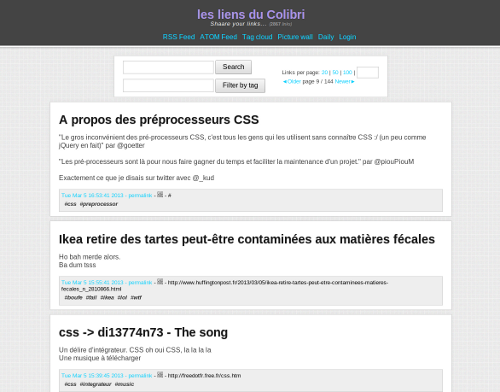
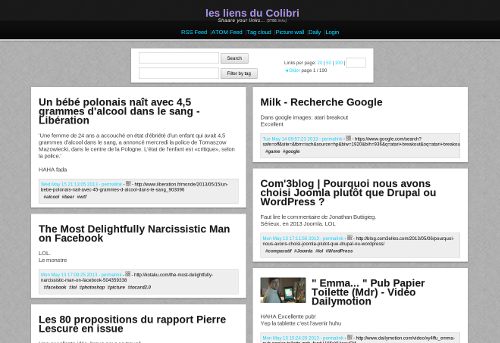
Mise a jour illustrations

diff --git a/tpl/shaarli.min.css b/tpl/shaarli.min.css
@@ -1,1 +1,1 @@
-/*! normalize.css v1.1.0 | MIT License | git.io/normalize */article,aside,details,figcaption,figure,footer,header,hgroup,main,nav,section,summary{display:block}audio,canvas,video{display:inline-block;*display:inline;*zoom:1}audio:not([controls]){display:none;height:0}[hidden]{display:none}html{font-size:100%;-webkit-text-size-adjust:100%;-ms-text-size-adjust:100%}html,button,input,select,textarea{font-family:sans-serif}body{margin:0}a:focus{outline:thin dotted}a:active,a:hover{outline:0}h1{font-size:2em;margin:.67em 0}h2{font-size:1.5em;margin:.83em 0}h3{font-size:1.17em;margin:1em 0}h4{font-size:1em;margin:1.33em 0}h5{font-size:.83em;margin:1.67em 0}h6{font-size:.67em;margin:2.33em 0}abbr[title]{border-bottom:1px dotted}b,strong{font-weight:bold}blockquote{margin:1em 40px}dfn{font-style:italic}hr{-moz-box-sizing:content-box;box-sizing:content-box;height:0}mark{background:#ff0;color:#000}p,pre{margin:1em 0}code,kbd,pre,samp{font-family:monospace,serif;_font-family:'courier new',monospace;font-size:1em}pre{white-space:pre;white-space:pre-wrap;word-wrap:break-word}q{quotes:none}q:before,q:after{content:'';content:none}small{font-size:80%}sub,sup{font-size:75%;line-height:0;position:relative;vertical-align:baseline}sup{top:-0.5em}sub{bottom:-0.25em}dl,menu,ol,ul{margin:1em 0}dd{margin:0 0 0 40px}menu,ol,ul{padding:0 0 0 40px}nav ul,nav ol{list-style:none;list-style-image:none}img{border:0;-ms-interpolation-mode:bicubic}svg:not(:root){overflow:hidden}figure{margin:0}form{margin:0}fieldset{border:1px solid #c0c0c0;margin:0 2px;padding:.35em .625em .75em}legend{border:0;padding:0;white-space:normal;*margin-left:-7px}button,input,select,textarea{font-size:100%;margin:0;vertical-align:baseline;*vertical-align:middle}button,input{line-height:normal}button,select{text-transform:none}button,html input[type="button"],input[type="reset"],input[type="submit"]{-webkit-appearance:button;cursor:pointer;*overflow:visible}button[disabled],html input[disabled]{cursor:default}input[type="checkbox"],input[type="radio"]{box-sizing:border-box;padding:0;*height:13px;*width:13px}input[type="search"]{-webkit-appearance:textfield;-moz-box-sizing:content-box;-webkit-box-sizing:content-box;box-sizing:content-box}input[type="search"]::-webkit-search-cancel-button,input[type="search"]::-webkit-search-decoration{-webkit-appearance:none}button::-moz-focus-inner,input::-moz-focus-inner{border:0;padding:0}textarea{overflow:auto;vertical-align:top}table{border-collapse:collapse;border-spacing:0}body{background:#ddd url(noisy_grid.png)}h1{font-size:1.79em;line-height:.91em}a{color:#0cd1fe;text-decoration:none}a:hover{text-decoration:underline}.hidden{display:none}.right{float:right}.left{float:left}.clear{clear:both;visibility:hidden;border:0}#header{background:#444;padding:5px;border-bottom:3px solid #fff;margin-bottom:20px;box-shadow:0 2px 5px rgba(0,0,0,0.2);position:relative}#header h1,#header h2{text-align:center;margin-bottom:0}#header h2{color:#eee;font-style:italic;font-size:.8em;font-weight:normal;letter-spacing:.1em;margin-top:0}.banner ul li{display:inline;padding:2px}.banner ul li::before{content:"|"}.banner ul li:first-child::before{content:""}.shaarli-count{font-style:italic;font-size:.8em;color:#999;letter-spacing:normal}.shaarli-count span{font-style:normal;font-weight:bold}#navigation{text-align:center;padding:5px;margin-top:10px}#navigation ul{margin:0}blockquote{background:#f8f8f8;padding:15px;font-family:Georgia,Cambria,Times;font-style:italic}p,blockquote,h1,h2,h3,h4,h5,b,i,em,strong,dl,dt,dd,abbr,ul,ol,code,table{color:#3f3f3f;word-wrap:break-word}thead{background:#444;color:#ebebeb}th,td{padding:5px 7px}td{border:1px solid #ddd}tbody tr:nth-child(even){background:#efefef}dt{font-size:1.1em;font-style:normal;font-weight:bold}dt::after{content:' :'}dd{margin-top:5px;font-style:italic}input[type="text"],input[type="mail"],input[type="password"],textarea{border:1px solid #ccc;box-shadow:inset 0 0 5px rgba(0,0,0,.1);font-size:1em;padding:5px 10px}input[type="submit"]{padding:5px 15px}.search-custom form{margin-top:10px}.shaarli-pagination{margin-top:25px}.pagination-configuration,.pagination{padding:0;margin:0;font-size:.8em}.pagination-configuration li,.pagination li{display:inline}.pagination-configuration form{margin:0;display:inline}.pagination-configuration .private{background-color:transparent}.links-per-page input{width:30px}.boxwhite{background:white;padding:10px 20px;max-width:900px;margin:10px auto;border:1px solid #cfcfcf;box-shadow:0 0 15px rgba(0,0,0,.05)}article,.search-custom{position:relative}.search-custom{padding-top:0;max-width:600px}.private{background:#fe3980;background:rgba(254,57,128,0.2);border-color:#afa7a7}.thumbnail{float:left;margin-right:15px;margin-top:15px}h1 a{text-decoration:none;color:#181818;text-shadow:0 1px 2px rgba(0,0,0,.23)}.banner h1 a{color:#aa94e7}h1 a:hover{color:#0e587a}#link-list,.search-custom{-webkit-transform:translateZ(0);-moz-transform:translateZ(0);-o-transform:translateZ(0);transform:translateZ(0);-webkit-backface-visibility:hidden}article nav{background:#eee;border:1px solid #ccc;padding:5px;font-size:.8em;overflow:hidden}.link-tag-list{margin:5px;padding:0}.link-tag{display:inline;font-style:italic;font-weight:bold;padding:0 2px}.link-tag a{color:#333}.link-tag::before{content:"#"}.qrcode{position:fixed;z-index:10;border:1px solid #ccc;box-shadow:0 0 10px 5px rgba(0,0,0,.5);top:50%;margin-top:-100px;left:50%;margin-left:-100px;cursor:delete}.qrcode figcaption{padding:5px;background:#777;text-align:center;color:white;margin-top:-5px}.link-edit-button{border:1px solid #ccc;width:12px;padding:10px;height:30px;position:absolute;top:24px;background:white;left:-33px;border-right:0}.bottom-pagination{max-width:450px}.bottom-pagination ul:first-child{float:left;margin-right:25px}.bottom-pagination .pagination{padding-top:4px}.bottom-pagination .shaarli-pagination{margin:0 0 5px}#footer{text-align:center;font-size:.75em}.picwall-pictureframe{display:inline-block}.login-form div{padding:10px}.login-form label{width:80px;display:inline-block}.login-form .login-checkbox{width:100%}.smallbutton{background:#eee;padding:5px;border:1px solid #ccc;border-radius:5px}.smallbutton:hover{text-decoration:none;background:#888;color:#eee}#newversion{position:absolute;top:5px;background:white;padding:5px;border:2px solid red;left:5px}.search-tag-delete{background:#444;padding:1px 5px;border-radius:24px;color:white}.editlink label{margin-top:8px;display:block}.editlink label:first-child{margin-top:0}.form-size{min-width:97%}#lf_tags{font-size:.8em}.button-div{margin-top:5px}.button-div input[type="button"]{padding:5px 15px}.button-div input[value="Save"]{color:#0c9de8}.button-div input[value="Delete"]{color:red}.bookmarklet-page #header{margin-bottom:0}.bookmarklet-page #header h1{margin-top:0}.bookmarklet-page body{background-image:none}.bookmarklet-page .editlink label{margin-top:3px}.bookmarklet-page .button-div input{padding:0 10px}.bookmarklet-page .boxwhite{background:white;padding:5px 20px;margin:0;border:0;box-shadow:none}.bookmarklet-page textarea{font-size:.9em}.tag-cloud{text-align:center}.tools-page li{margin-bottom:10px}.ui-autocomplete{background-color:#fff;padding:0 15px;max-width:300px;border:1px solid #c5c5c6}.ui-menu-item{list-style:none;margin-bottom:5px}.ui-menu-item:hover{background-color:#eee}.ui-menu-item a{display:block;width:100%;padding:3px;font-size:.8em}.ui-state-hover{background-color:#676767;color:#fff}.daily{font-family:Georgia,'DejaVu Serif',Norasi,serif;background-color:#e6d6be;background-image:url("../images/Paper_texture_v5_by_bashcorpo_w1000.jpg");-webkit-background-size:cover;-moz-background-size:cover;-o-background-size:cover;background-size:cover;position:relative;border-bottom:2px solid black}#daily_col1{float:left;position:relative;width:33%;padding-left:1%}#daily_col2{float:left;position:relative;width:33%}#daily_col3{float:left;position:relative;width:33%}div.dailyAbout{float:left;border:1px solid black;font-size:8pt;position:absolute;left:10px;top:15px;padding:5px 5px 5px 5px;text-align:center}div.dailyAbout a{color:#890500}div.dailyTitle{font-weight:bold;font-size:44pt;text-align:center;padding:10px 20px 0 20px}div.dailyDate{font-size:12pt;font-weight:bold;text-align:center;padding:0 20px 30px 20px}div.dailyEntry{margin:5px 10px 2px 5px;font-size:11pt;border-top:1px solid #555}div.dailyEntry a{text-decoration:none;color:#890500}div.dailyEntryTags{font-size:7.75pt}div.dailyEntryTitle{font-size:18pt;font-weight:bold}div.dailyEntryThumbnail{width:100%;text-align:center;background-color:#808080;background:url(../images/50pc_transparent.png);padding:4px 0 2px 0}div.dailyEntryDescription{margin-top:10px;margin-bottom:30px;text-align:justify;overflow:auto}#toggle-search{display:none}@media(max-width:640px){label[for="toggle-search"]:before{content:attr(data-icon);position:absolute;top:7px;left:8px;z-index:1337;padding:.1em .3em;font-size:2.5em;font-weight:bold;line-height:.7em;background:rgba(255,255,255,.4);color:#000;border-radius:4px}.search-custom{position:absolute;left:0;margin-left:-300px;z-index:10;width:230px;height:100%;margin-top:-23px;box-shadow:0 0 15px rgba(0,0,0,.5);-webkit-transition:margin-left .4s;-moz-transition:margin-left .4s;-o-transition:margin-left .4s;-ms-transition:margin-left .4s;transition:margin-left .4s}#toggle-search:checked+.search-custom{margin-left:0}}
+/*! normalize.css v1.1.0 | MIT License | git.io/normalize */article,aside,details,figcaption,figure,footer,header,hgroup,main,nav,section,summary{display:block}audio,canvas,video{display:inline-block;*display:inline;*zoom:1}audio:not([controls]){display:none;height:0}[hidden]{display:none}html{font-size:100%;-webkit-text-size-adjust:100%;-ms-text-size-adjust:100%}html,button,input,select,textarea{font-family:sans-serif}body{margin:0}a:focus{outline:thin dotted}a:active,a:hover{outline:0}h1{font-size:2em;margin:.67em 0}h2{font-size:1.5em;margin:.83em 0}h3{font-size:1.17em;margin:1em 0}h4{font-size:1em;margin:1.33em 0}h5{font-size:.83em;margin:1.67em 0}h6{font-size:.67em;margin:2.33em 0}abbr[title]{border-bottom:1px dotted}b,strong{font-weight:bold}blockquote{margin:1em 40px}dfn{font-style:italic}hr{-moz-box-sizing:content-box;box-sizing:content-box;height:0}mark{background:#ff0;color:#000}p,pre{margin:1em 0}code,kbd,pre,samp{font-family:monospace,serif;_font-family:'courier new',monospace;font-size:1em}pre{white-space:pre;white-space:pre-wrap;word-wrap:break-word}q{quotes:none}q:before,q:after{content:'';content:none}small{font-size:80%}sub,sup{font-size:75%;line-height:0;position:relative;vertical-align:baseline}sup{top:-0.5em}sub{bottom:-0.25em}dl,menu,ol,ul{margin:1em 0}dd{margin:0 0 0 40px}menu,ol,ul{padding:0 0 0 40px}nav ul,nav ol{list-style:none;list-style-image:none}img{border:0;-ms-interpolation-mode:bicubic}svg:not(:root){overflow:hidden}figure{margin:0}form{margin:0}fieldset{border:1px solid silver;margin:0 2px;padding:.35em .625em .75em}legend{border:0;padding:0;white-space:normal;*margin-left:-7px}button,input,select,textarea{font-size:100%;margin:0;vertical-align:baseline;*vertical-align:middle}button,input{line-height:normal}button,select{text-transform:none}button,html input[type="button"],input[type="reset"],input[type="submit"]{-webkit-appearance:button;cursor:pointer;*overflow:visible}button[disabled],html input[disabled]{cursor:default}input[type="checkbox"],input[type="radio"]{box-sizing:border-box;padding:0;*height:13px;*width:13px}input[type="search"]{-webkit-appearance:textfield;-moz-box-sizing:content-box;-webkit-box-sizing:content-box;box-sizing:content-box}input[type="search"]::-webkit-search-cancel-button,input[type="search"]::-webkit-search-decoration{-webkit-appearance:none}button::-moz-focus-inner,input::-moz-focus-inner{border:0;padding:0}textarea{overflow:auto;vertical-align:top}table{border-collapse:collapse;border-spacing:0}body{background:#ddd url(background.png);font-size:95.5%}h1{font-size:1.79em;line-height:.91em}a{color:#0cd1fe;text-decoration:none}a:hover{text-decoration:underline}.hidden{display:none}.right{float:right}.left{float:left}.clear{clear:both;visibility:hidden;border:0}#header{background:rgba(0,0,0,.85) url(degrade-header.png) repeat-x bottom;padding:5px;border-bottom:3px solid #fff;margin-bottom:20px;box-shadow:0 2px 5px rgba(0,0,0,0.2);position:relative}#header h1,#header h2{text-align:center;margin-bottom:0}#header h2{color:#eee;font-style:italic;font-size:.8em;font-weight:normal;letter-spacing:.1em;margin-top:0}.banner ul li{display:inline;padding:2px}.banner ul li::before{content:"|"}.banner ul li:first-child::before{content:""}.shaarli-count{font-style:italic;font-size:.8em;color:#999;letter-spacing:normal}.shaarli-count span{font-style:normal;font-weight:bold}#navigation{text-align:center;padding:5px;margin-top:10px}#navigation ul{margin:0}blockquote{background:#f8f8f8;padding:15px;font-family:Georgia,Cambria,Times;font-style:italic}p,blockquote,h1,h2,h3,h4,h5,b,i,em,strong,dl,dt,dd,abbr,ul,ol,code,table{color:#3f3f3f;word-wrap:break-word}thead{background:#444;color:#ebebeb}th,td{padding:5px 7px}td{border:1px solid #ddd}tbody tr:nth-child(even){background:#efefef}dt{font-size:1.1em;font-style:normal;font-weight:bold}dt::after{content:' :'}dd{margin-top:5px;font-style:italic}input[type="text"],input[type="mail"],input[type="password"],textarea{border:1px solid #ccc;box-shadow:inset 0 0 5px rgba(0,0,0,.1);font-size:1em;padding:5px 10px}input[type="submit"]{padding:5px 15px}input,button,textarea{font-size:.8em}.search-custom form{margin-top:10px}.shaarli-pagination{margin-top:25px}.pagination-configuration,.pagination{padding:0;margin:0;font-size:.8em}.pagination-configuration li,.pagination li{display:inline}.pagination-configuration form{margin:0;display:inline}.pagination-configuration .private{background-color:transparent}.links-per-page input{width:30px}.boxwhite{background:white;padding:10px 20px;max-width:900px;margin:10px auto;border:1px solid #a5a5a5;box-shadow:0 2px 2px 0 rgba(0,0,0,.235)}article,.search-custom{position:relative}.search-custom{padding-top:0;max-width:600px}.private{background:#fa8282;border-color:#f70c0c;border-color:rgb(247,12,12,.7)}.thumbnail{float:left;margin-right:15px;margin-top:15px}h1 a{text-decoration:none;color:#181818;text-shadow:0 1px 2px rgba(0,0,0,.23)}.banner h1 a{color:#aa94e7}h1 a:hover{color:#0e587a}#link-list,.search-custom{-webkit-transform:translateZ(0);-moz-transform:translateZ(0);-o-transform:translateZ(0);transform:translateZ(0);-webkit-backface-visibility:hidden}article nav{background:#eee;border:1px solid #ccc;padding:5px;font-size:.8em;overflow:hidden}.link-tag-list{margin:5px;padding:0}.link-tag{display:inline;font-style:italic;font-weight:bold;padding:0 2px}.link-tag a{color:#333}.link-tag::before{content:"#"}.qrcode{position:fixed;z-index:10;border:1px solid #ccc;box-shadow:0 0 10px 5px rgba(0,0,0,.5);top:50%;margin-top:-100px;left:50%;margin-left:-100px;cursor:delete}.qrcode figcaption{padding:5px;background:#777;text-align:center;color:white;margin-top:-5px}.link-edit-button{border:1px solid #ccc;width:12px;padding:10px;height:30px;position:absolute;top:24px;background:white;left:-33px;border-right:0}.bottom-pagination{max-width:450px;margin:0 auto;color:black;text-align:center;text-shadow:0 1px 1px #f3f2f2;font-weight:bold}.bottom-pagination a{color:black}.bottom-pagination ul:first-child{float:left;margin-right:25px}.bottom-pagination .pagination{padding-top:4px}.bottom-pagination .shaarli-pagination{margin:0 0 5px}#link-list{width:90%;margin:0 auto 2em;height:100%;position:relative}#link-list .boxwhite{margin:0 0 15px 0}#footer{text-align:center;font-size:.75em}.picwall-pictureframe{display:inline-block}.login-form div{padding:10px}.login-form label{width:80px;display:inline-block}.login-form .login-checkbox{width:100%}.smallbutton{background:#eee;padding:5px;border:1px solid #ccc;border-radius:5px}.smallbutton:hover{text-decoration:none;background:#888;color:#eee}#newversion{position:absolute;top:5px;background:white;padding:5px;border:2px solid red;left:5px}.search-tag-delete{background:#444;padding:1px 5px;border-radius:24px;color:white}.editlink label{margin-top:8px;display:block}.editlink label:first-child{margin-top:0}.form-size{min-width:97%}#lf_tags{font-size:.8em}.button-div{margin-top:5px}.button-div input[type="button"]{padding:5px 15px}.button-div input[value="Save"]{color:#0c9de8}.button-div input[value="Delete"]{color:red}.bookmarklet-page #header{margin-bottom:0}.bookmarklet-page #header h1{margin-top:0}.bookmarklet-page body{background-image:none}.bookmarklet-page .editlink label{margin-top:3px}.bookmarklet-page .button-div input{padding:0 10px}.bookmarklet-page .boxwhite{background:white;padding:5px 20px;margin:0;border:0;box-shadow:none}.bookmarklet-page textarea{font-size:.9em}.tag-cloud{text-align:center}.boxwhite.tag-cloud,.daily.boxwhite{width:90%}.tools-page li{margin-bottom:10px}.ui-autocomplete{background-color:#fff;padding:0 15px;max-width:300px;border:1px solid #c5c5c6}.ui-menu-item{list-style:none;margin-bottom:5px}.ui-menu-item:hover{background-color:#eee}.ui-menu-item a{display:block;width:100%;padding:3px;font-size:.8em}.ui-state-hover{background-color:#676767;color:#fff}.daily{font-family:Georgia,'DejaVu Serif',Norasi,serif;background-color:#e6d6be;background-image:url("../images/Paper_texture_v5_by_bashcorpo_w1000.jpg");-webkit-background-size:cover;-moz-background-size:cover;-o-background-size:cover;background-size:cover;position:relative;border-bottom:2px solid black}#daily_col1{float:left;position:relative;width:33%;padding-left:1%}#daily_col2{float:left;position:relative;width:33%}#daily_col3{float:left;position:relative;width:33%}div.dailyAbout{float:left;border:1px solid black;font-size:8pt;position:absolute;left:10px;top:15px;padding:5px 5px 5px 5px;text-align:center}div.dailyAbout a{color:#890500}div.dailyTitle{font-weight:bold;font-size:44pt;text-align:center;padding:10px 20px 0 20px}div.dailyDate{font-size:12pt;font-weight:bold;text-align:center;padding:0 20px 30px 20px}div.dailyEntry{margin:5px 10px 2px 5px;font-size:11pt;border-top:1px solid #555}div.dailyEntry a{text-decoration:none;color:#890500}div.dailyEntryTags{font-size:7.75pt}div.dailyEntryTitle{font-size:18pt;font-weight:bold}div.dailyEntryThumbnail{width:100%;text-align:center;background-color:gray;background:url(../images/50pc_transparent.png);padding:4px 0 2px 0}div.dailyEntryDescription{margin-top:10px;margin-bottom:30px;text-align:justify;overflow:auto}#toggle-search{display:none}@media(min-width:850px){.boxwhite{width:45%}}.no-js.boxwhite,.is-opera.boxwhite{width:90%}@media(min-width:1300px){#link-list{width:1172px}}@media(max-width:640px){label[for="toggle-search"]:before{content:attr(data-icon);position:absolute;top:7px;left:8px;z-index:1337;padding:.1em .3em;font-size:2.5em;font-weight:bold;line-height:.7em;background:rgba(255,255,255,.4);color:#000;border-radius:4px}.search-custom{position:absolute;left:0;margin-left:-300px;z-index:10;width:230px;height:100%;margin-top:-23px;box-shadow:0 0 15px rgba(0,0,0,.5);-webkit-transition:margin-left .4s;-moz-transition:margin-left .4s;-o-transition:margin-left .4s;-ms-transition:margin-left .4s;transition:margin-left .4s}#toggle-search:checked+.search-custom{margin-left:0}}

diff --git a/tpl/includes.html b/tpl/includes.html
@@ -5,7 +5,7 @@
 <link rel="alternate" type="application/rss+xml" href="{$feedurl}?do=rss{$searchcrits}#" title="RSS Feed" />
 <link rel="alternate" type="application/atom+xml" href="{$feedurl}?do=atom{$searchcrits}#" title="ATOM Feed" />
 <link href="images/favicon.ico#" rel="shortcut icon" type="image/x-icon" />
-<link type="text/css" rel="stylesheet" href="tpl/shaarli.css?version={$version|urlencode}#" />
+<link type="text/css" rel="stylesheet" href="tpl/shaarli.min.css?version={$version|urlencode}#" />
 {if condition="is_file('inc/user.css')"}<link type="text/css" rel="stylesheet" href="inc/user.css?version={$version}#" />{/if}
 {if="empty($GLOBALS['disablejquery'])"}
 <script src="inc/jquery.min.js#"></script><script src="inc/jquery-ui.min.js#"></script>
